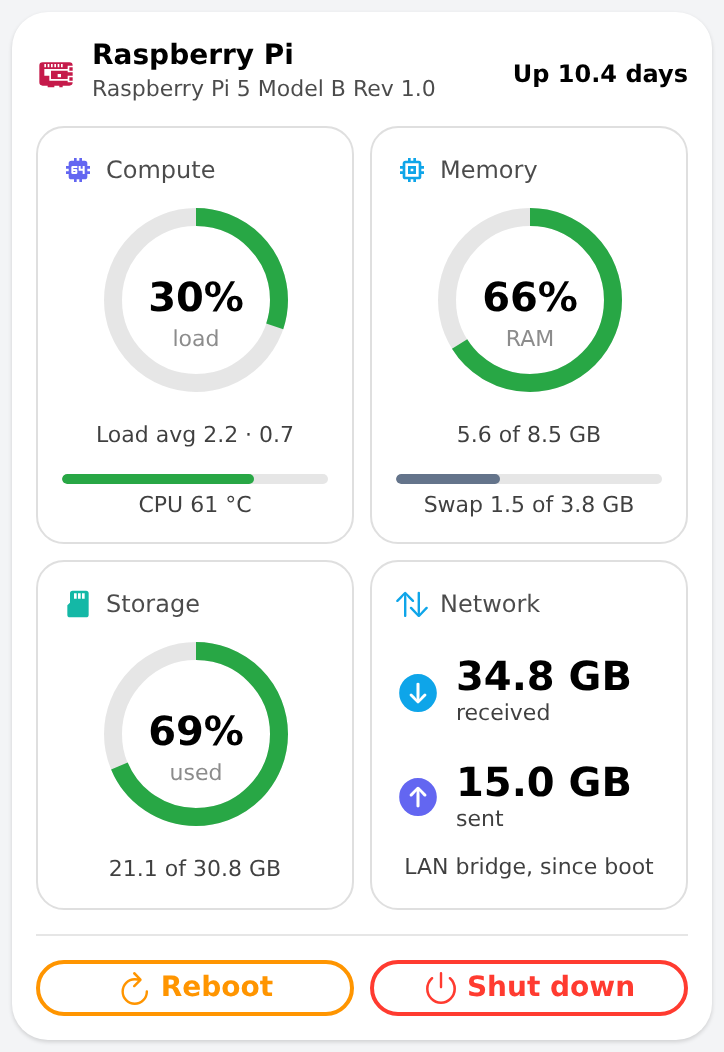
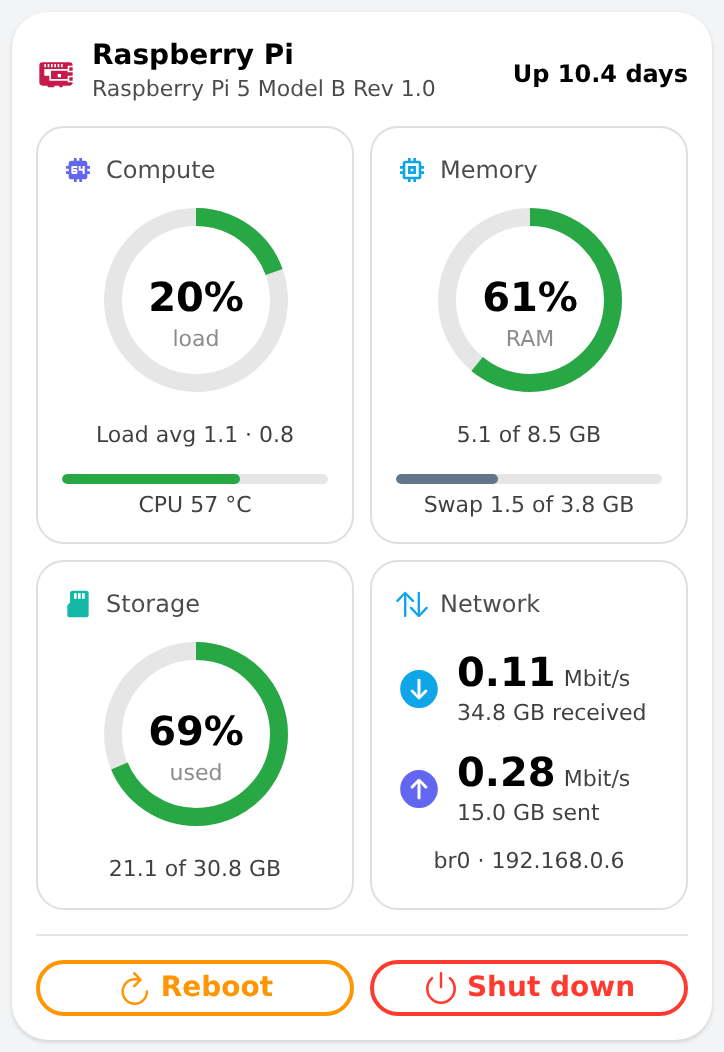
release(server_status_card): v1.3.0 — network tile with live rates, trend, interface and IP; example rate rule

diff --git a/widgets/server_status_card/rules/network-rate.js b/widgets/server_status_card/rules/network-rate.js
@@ -1,0 +1,20 @@
+// JS Scripting rule, trigger: cron "0 * * * * ?" (every minute).
+// Network throughput of the LAN bridge from the kernel counters (/proc/net/dev), once a minute.
+// The systeminfo binding only refreshes its data counters hourly (low priority), too coarse for a live rate.
+var IFACE = (items.getItem('Systeminfo_Net_Name').state || 'br0').toString();
+var lines = Java.type('java.nio.file.Files').readAllLines(Java.type('java.nio.file.Paths').get('/proc/net/dev')).toArray();
+var rx = NaN, tx = NaN;
+for (var i = 0; i < lines.length; i++) {
+  var l = String(lines[i]).trim();
+  if (l.indexOf(IFACE + ':') === 0) { var f = l.substring(IFACE.length + 1).trim().split(/\s+/); rx = parseFloat(f[0]); tx = parseFloat(f[8]); }
+}
+var cur = { t: Date.now(), rx: rx, tx: tx };
+var last = cache.private.get('netlast');
+cache.private.put('netlast', cur);
+if (last && !isNaN(rx) && !isNaN(tx) && cur.t > last.t) {
+  var dt = (cur.t - last.t) / 1000;
+  var down = Math.max(0, rx - last.rx) * 8 / 1000000 / dt;   // Mbit/s, a counter reset gives 0
+  var up = Math.max(0, tx - last.tx) * 8 / 1000000 / dt;
+  items.getItem('Systeminfo_Data_Rate_Down').postUpdate(down.toFixed(3) + ' Mbit/s');
+  items.getItem('Systeminfo_Data_Rate_Up').postUpdate(up.toFixed(3) + ' Mbit/s');
+}

diff --git a/widgets/server_status_card/README.md b/widgets/server_status_card/README.md
@@ -3,14 +3,14 @@
 ![Server status card](screenshots/card.png)
 
 One grouped card for the machine openHAB runs on, organised by layer: **Compute** (CPU load ring, load average, temperature bar),
-**Memory** (RAM ring, swap bar nested under it), **Storage** (used ring with used/total GB), **Network** (data received/sent since boot),
+**Memory** (RAM ring, swap bar nested under it), **Storage** (used ring with used/total GB), **Network** (live rates, totals since boot, interface and IP),
 and the **controls** Reboot and Shut down. The layer tiles wrap: two per row on a phone (compute+memory, storage+network), all four in one row on wide screens.
 Every tile has the same structure — header with icon and title, ring or values, primary line, optional bar. The header shows the hardware model and the uptime. The rings go green → amber above 70 % → red above 85 %.
 
 Native components only (`f7-gauge`, `f7-card`, `oh-button`); optional parts (the two buttons) render through repeaters. Reboot and shutdown send `ON` to exec
 switch items and always ask for confirmation first — shutdown needs physical access to start again; leave `rebootItem` / `shutdownItem` empty to hide a button.
 
-Items come from the openHAB `systeminfo` binding. Note that the binding's default `network` channel group may map to an idle bridge (e.g. a container bridge);
+Items come from the openHAB `systeminfo` binding. The two rate items are not binding channels: the binding's network counters refresh only hourly, so a small rule reads `/proc/net/dev` once a minute and writes the Mbit/s of your interface to the two rate items (example in [`rules/network-rate.js`](rules/network-rate.js)). Note that the binding's default `network` channel group may map to an idle bridge (e.g. a container bridge);
 link the data sent/received items to the channel group of your real interface.
 
 ## Props
@@ -32,11 +32,20 @@ link the data sent/received items to the channel group of your real interface.
 | `storageUsedItem` | `Systeminfo_UsedStorage` | Number:DataAmount (bytes). |
 | `storageTotalItem` | `Systeminfo_Total_Storage` | Number:DataAmount (bytes). |
 | `rxItem` | `Systeminfo_Data_Received` | Number:DataAmount (bytes since boot). |
+| `rxRateItem` | `Systeminfo_Data_Rate_Down` | Number:DataTransferRate (Mbit/s), also drawn as 24 h trend. Produced by a rule from the counters. |
+| `txRateItem` | `Systeminfo_Data_Rate_Up` | Number:DataTransferRate (Mbit/s). |
+| `netNameItem` | `Systeminfo_Net_Name` | String item with the interface name (e.g. br0). |
+| `netIpItem` | `Systeminfo_Net_IP` | String item with the IP address. |
 | `txItem` | `Systeminfo_Data_Sent` | Number:DataAmount (bytes since boot). |
 | `rebootItem` | `gSystem_Reboot` | Exec switch; ON reboots the server (with confirmation). Empty = no button. |
 | `shutdownItem` | `gSystem_Shutdown` | Exec switch; ON powers the server off (with confirmation). Empty = no button. |
 
 ## Changelog
+
+### Version 1.3.0
+
+- Network tile: live download/upload rate (Mbit/s) with a 24 h trend line, the totals since boot as sub lines, and the interface name and IP address
+- New props: `rxRateItem`, `txRateItem`, `netNameItem`, `netIpItem` (the rate items need the example rule)
 
 ### Version 1.2.0
 
